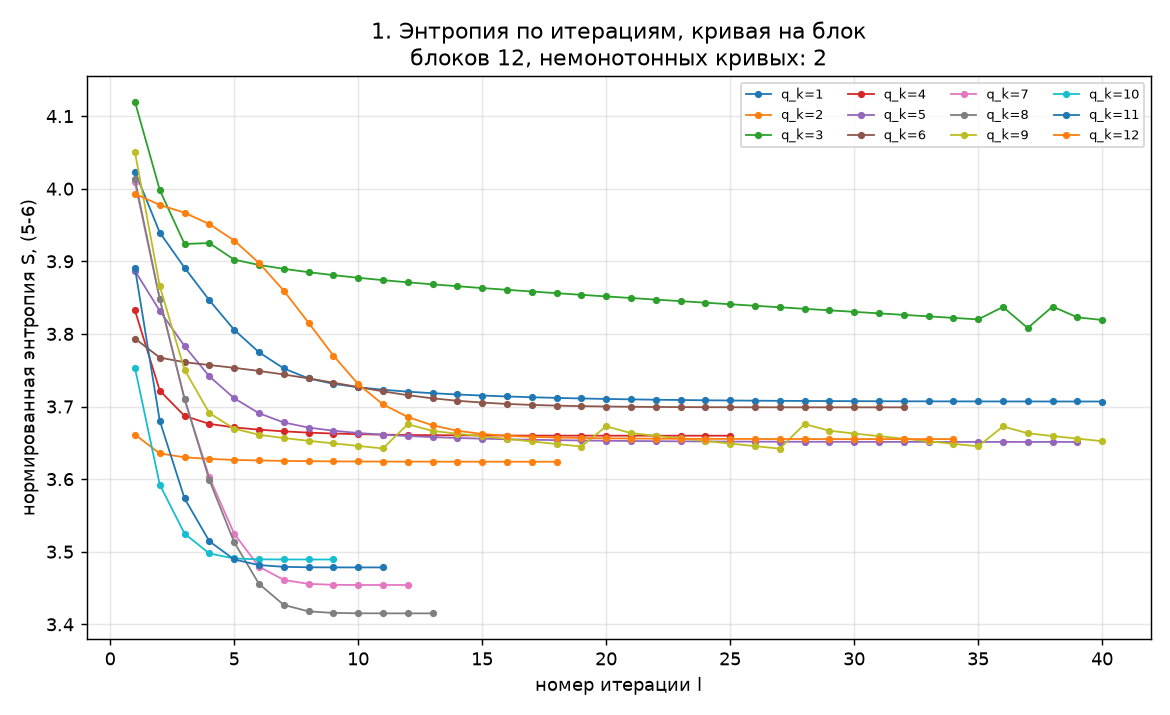
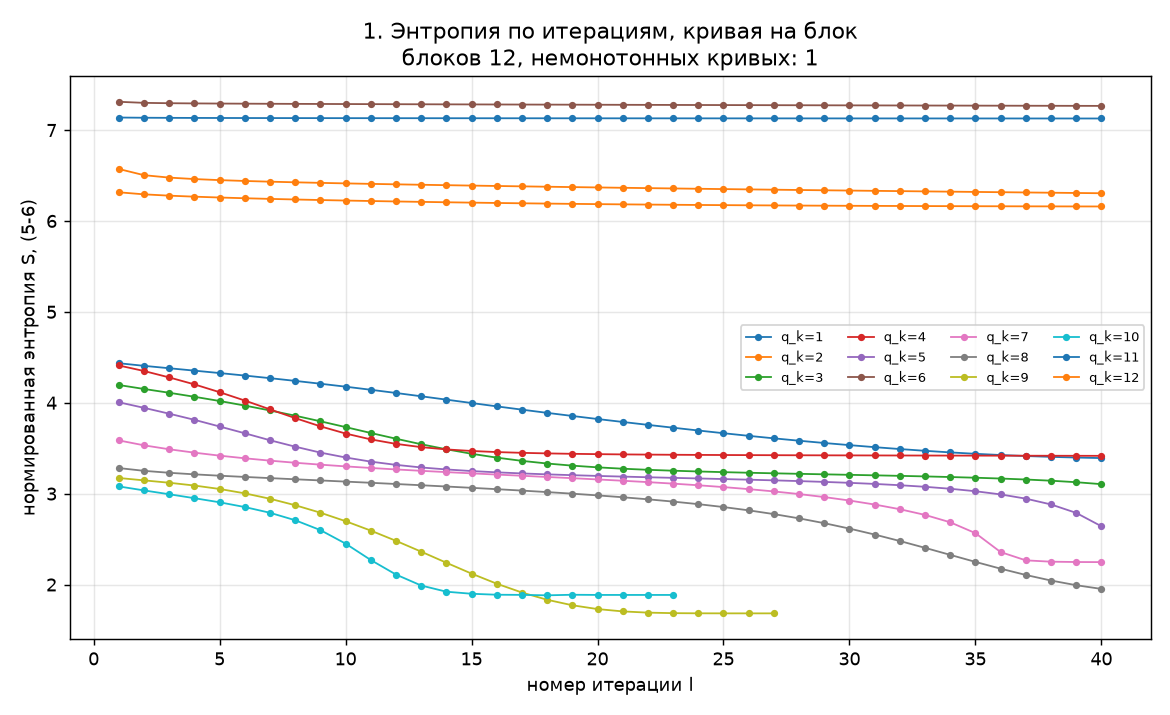
T-186: нарезка на блоки исправлена на пространственную
Была ошибка чтения: этап A резал массив h(k,n) по доплеровским бинам.
§3.3 документа говорит иначе — «блок занимает [-x_p,+x_p] по азимуту»,
где x_p это метры на местности, а (5-22) переводит их в пиксели
изображения. Блок это участок СЦЕНЫ, режется изображение по m.

Следствие, в документе не выписанное: доплеровская ось блока остаётся
полной. Поправка phi_k — свойство носителя на всей апертуре, вектор (5-3)
обязан иметь длину M. Блок выбирает, по чему считается энтропия, а не по
скольким бинам ищется фаза.

Выбор между тремя способами сделан замером: при верном способе энтропия в
ИСТИННОЙ фазе должна быть наименьшей.

  срез h по бинам k          S(ист)=3.71 против S(0)=3.89 — не опознаёт
  участок сцены, ось m_p     S(ист)=3.44 против S(0)=3.32 — ХУЖЕ нуля
  участок сцены, ось M       S(ист)=1.86 против S(найд)=1.85 — опознаёт

Что изменилось: Block.k_start/k_stop -> m_start/m_stop (границы теперь в
пикселях изображения); добавлены scene_image и block_data в
stage_a_blocks; experiment_full_run и карта блоков переведены на них.

Формулы не тронуты. Этапы B, C, D и весь стенд без изменений.

Приёмка §10 проходит целиком. Сошлось 2 блока из 12 при книжном phi(0);
замер причины: член -(q-q_k)/2 из (5-29) даёт eta до -6.1 и СКО phi(0)
до 5.2 рад. При старте из нуля сходятся 6 из 12, а из шести оставшихся
четыре — блоки без единой точечной цели, то есть случай §7.4 задания.

Claude-Session: https://claude.ai/code/session_0131t2cRSN4FHWoUZqJmH65Q

diff --git a/lab/mn_mea/stage_a_blocks.py b/lab/mn_mea/stage_a_blocks.py
@@ -50,14 +50,21 @@ class Geometry:
 
 @dataclass(frozen=True)
 class Block:
-    """Один блок: сквозной номер q_k по (5-26), его место в массиве h(k,n)
-    и координаты его центра относительно центра сцены, в метрах."""
+    """Один блок: сквозной номер q_k по (5-26), его место НА СЦЕНЕ и
+    координаты его центра относительно центра сцены, в метрах.
+
+    Границы даны в пикселях ИЗОБРАЖЕНИЯ: m_start:m_stop по азимуту,
+    n_start:n_stop по дальности. Именно так требует §3.3 документа —
+    «блок занимает [-x_p, +x_p] по азимуту и [-y_p, +y_p] по дальности»,
+    где x_p, y_p это метры на местности, а (5-22)/(5-23) переводят их в
+    отсчёты изображения.
+    """
 
     q_k: int
     m_k: int
     n_k: int
-    k_start: int
-    k_stop: int
+    m_start: int
+    m_stop: int
     n_start: int
     n_stop: int
     x_centre: float
@@ -65,7 +72,7 @@ class Block:
 
     @property
     def shape(self) -> tuple[int, int]:
-        return (self.k_stop - self.k_start, self.n_stop - self.n_start)
+        return (self.m_stop - self.m_start, self.n_stop - self.n_start)
 
 
 def motion_constants(geom: Geometry) -> tuple[float, float, float]:
@@ -234,11 +241,17 @@ def block_number(m_k: int, M_k: int, n_k: int) -> int:
 
 
 def block_grid(M: int, N: int, M_k: int, N_k: int, geom: Geometry) -> list[Block]:
-    """Сетка блоков целиком: нарезка массива h(k,n) на M_k x N_k плиток и
-    нумерация каждой по (5-26).
+    """Сетка блоков целиком: нарезка СЦЕНЫ на M_k x N_k участков и нумерация
+    каждого по (5-26).
 
-    Принимает размеры массива, число блоков по осям и Geometry;
+    Принимает размеры изображения, число блоков по осям и Geometry;
     возвращает список Block, упорядоченный по q_k.
+
+    Режется ИЗОБРАЖЕНИЕ по азимутальным пикселям m, а не массив данных по
+    доплеровским бинам k. Основание — §3.3 документа: блок занимает
+    [-x_p, +x_p] по азимуту, где x_p это расстояние на местности, и (5-22)
+    переводит его в пиксели изображения. Цель, стоящая на местности,
+    принадлежит ровно одному блоку — тому, на чьём участке она находится.
 
     Раскладка следует из (5-24)/(5-25) буквально: там стоит ПОТОЛОК, а потолок
     нужен ровно тогда, когда блоки берутся номинального размера, а последний
@@ -265,8 +278,8 @@ def block_grid(M: int, N: int, M_k: int, N_k: int, geom: Geometry) -> list[Block
                     q_k=block_number(m_k, M_k, n_k),
                     m_k=m_k,
                     n_k=n_k,
-                    k_start=k0,
-                    k_stop=k1,
+                    m_start=k0,
+                    m_stop=k1,
                     n_start=n0,
                     n_stop=n1,
                     x_centre=((k0 + k1) / 2.0 - M / 2.0) * geom.r_a,
@@ -275,6 +288,47 @@ def block_grid(M: int, N: int, M_k: int, N_k: int, geom: Geometry) -> list[Block
             )
     blocks.sort(key=lambda b: b.q_k)
     return blocks
+
+
+def scene_image(backend, h):
+    """Полное изображение сцены: (5-3) при phi = 0, по ВСЕМ M доплеровским бинам.
+
+    Принимает бэкенд и данные сцены h(k,n); возвращает изображение g(m,n).
+
+    Это то, что дальше режется на блоки. Считается ОДИН РАЗ на всю сцену,
+    до цикла по блокам: полоса доплеровских частот у всех блоков одна и та
+    же — вся, — различаются они участком местности.
+    """
+    return backend.fft_kernel_minus(backend.asarray(h))
+
+
+def block_data(backend, g_scene, block: Block):
+    """Данные блока h_qk(k,n) — то, что этап C получает на вход.
+
+    Принимает бэкенд, полное изображение сцены и Block;
+    возвращает массив (M, n_p): ПОЛНАЯ доплеровская ось и стробы дальности
+    этого блока.
+
+    Два шага. Из изображения берётся участок местности этого блока, всё
+    остальное обнуляется, — так энтропия (5-5) считается только по своему
+    куску сцены. Потом окно возвращается в область дальность-доплер по всем
+    M бинам.
+
+    Ось остаётся ПОЛНОЙ намеренно. Поправка phi_k — свойство носителя на
+    всей апертуре, и вектор (5-3) обязан иметь длину M, сколько бы пикселей
+    ни занимал блок. Блок выбирает, ПО ЧЕМУ считается энтропия, а не по
+    скольким бинам ищется фаза.
+
+    Проверяется это замером, а не рассуждением: при таком способе энтропия в
+    ИСТИННОЙ фазе оказывается наименьшей, а при укорочении оси до m_p —
+    хуже, чем при phi = 0. См. README, «Как читается нарезка на блоки».
+    """
+    окно = backend.xp.zeros_like(g_scene)
+    окно[block.m_start : block.m_stop, block.n_start : block.n_stop] = g_scene[
+        block.m_start : block.m_stop, block.n_start : block.n_stop
+    ]
+    данные = backend.xp.fft.ifft(окно, axis=0) / backend.alpha
+    return данные[:, block.n_start : block.n_stop]
 
 
 def centre_block_index(M_k: int, N_k: int) -> int:

diff --git a/lab/mn_mea/validate.py b/lab/mn_mea/validate.py
@@ -442,19 +442,15 @@ def experiment_edge_cases() -> list[dict]:
         sc = SY.scene("points_and_clutter", M_total, 48, rng)
         phi_err = SY.phase_error("quadratic", M_total, 3.0, rng)
         h = SY.range_doppler_from_scene(backend, sc.image, phi_err)
-        h_block = h[smallest.k_start : smallest.k_stop, smallest.n_start : smallest.n_stop]
-        result = C.iterate_block(
-            backend, h_block, np.zeros(smallest.shape[0]), mu=MU_MEASURED
-        )
+        h_block = A.block_data(backend, A.scene_image(backend, h), smallest)
+        result = C.iterate_block(backend, h_block, np.zeros(M_total), mu=MU_MEASURED)
         rows.append({
             "case": f"обрезанный блок q_k={smallest.q_k}: {smallest.shape[0]} бинов "
                     f"против {nominal} у номинального (M={M_total}, M_k={M_k})",
             "iterations": result.n_iterations,
             "converged": result.converged,
             "stop_reason": result.stop_reason,
-            "residual_rms_rad": phase_residual_rms(
-                phi_err[smallest.k_start : smallest.k_stop], result.phi
-            ),
+            "residual_rms_rad": phase_residual_rms(phi_err, result.phi),
             "coverage_exact": sum(b.shape[0] * b.shape[1] for b in blocks)
             == M_total * 48,
         })
@@ -731,12 +727,16 @@ def experiment_full_run(
     f_a_full = B.azimuth_frequency_axis(M, geom.T_a)
     eps_reference = B.phase_model(D_x, D_y, x_p, y_p, f_a_full)
 
+    # Блок — участок СЦЕНЫ (§3.3 документа), поэтому изображение строится один
+    # раз на всю сцену, а плитки вырезаются из него.
+    g_scene = A.scene_image(backend, h)
+
     per_block = []
     images: dict[int, object] = {}
     images_before: dict[int, object] = {}
     for block in blocks:
-        h_block = h[block.k_start : block.k_stop, block.n_start : block.n_stop]
-        M_block = block.k_stop - block.k_start
+        h_block = A.block_data(backend, g_scene, block)
+        M_block = M  # ось доплера полная: поправка ищется на всей апертуре
 
         # (5-29),(5-30): eta и phi^(0). eps берётся в опорной точке, той же,
         # что в знаменателе (5-29) — см. stage_b_initial.initial_phase.
@@ -745,13 +745,15 @@ def experiment_full_run(
         )
         if not eta_offset:  # замер цены расхождения §8, см. experiment_eta_term
             eta += (q - block.q_k) / 2.0
-        phi_0 = B.initial_phase(eta, eps_reference[block.k_start : block.k_stop])
+        phi_0 = B.initial_phase(eta, eps_reference)
 
         result = C.iterate_block(backend, h_block, phi_0, mu=MU_MEASURED)
-        images[block.q_k] = D.block_image(backend, h_block, result.phi)
-        images_before[block.q_k] = D.block_image(backend, h_block, np.zeros(M_block))
+        полное = D.block_image(backend, h_block, result.phi)
+        images[block.q_k] = полное[block.m_start : block.m_stop]
+        полное0 = D.block_image(backend, h_block, np.zeros(M_block))
+        images_before[block.q_k] = полное0[block.m_start : block.m_stop]
 
-        truth_block = phi_err[block.k_start : block.k_stop]
+        truth_block = phi_err
         per_block.append({
             "q_k": block.q_k, "m_k": block.m_k, "n_k": block.n_k,
             "shape": block.shape,

diff --git a/lab/mn_mea/plots.py b/lab/mn_mea/plots.py
@@ -186,8 +186,8 @@ def plot_block_map(full_run: dict, path: pathlib.Path) -> pathlib.Path:
     """График 6 §8: карта блоков на сцене с номерами по (5-26) — чтобы видеть,
     что разбиение легло так, как задумано.
 
-    Ось азимута здесь — ось доплеровских бинов k массива h(k,n): этап A режет
-    именно массив h (см. README, «Как читается нарезка на блоки»).
+    Ось азимута здесь — ось пикселей изображения m: этап A режет СЦЕНУ на
+    участки местности (§3.3 документа).
     """
     image_db = _decibels(full_run["_image_after"])
     fig, ax = plt.subplots(figsize=(8, 8))
@@ -196,14 +196,14 @@ def plot_block_map(full_run: dict, path: pathlib.Path) -> pathlib.Path:
               interpolation="nearest")
     for block in full_run["blocks"]:
         ax.add_patch(plt.Rectangle(
-            (block.n_start - 0.5, block.k_start - 0.5),
-            block.n_stop - block.n_start, block.k_stop - block.k_start,
+            (block.n_start - 0.5, block.m_start - 0.5),
+            block.n_stop - block.n_start, block.m_stop - block.m_start,
             fill=False, edgecolor="deepskyblue", linewidth=1.4))
-        ax.text((block.n_start + block.n_stop) / 2, (block.k_start + block.k_stop) / 2,
+        ax.text((block.n_start + block.n_stop) / 2, (block.m_start + block.m_stop) / 2,
                 f"$q_k$={block.q_k}\n$m_k$={block.m_k}, $n_k$={block.n_k}",
                 color="yellow", ha="center", va="center", fontsize=8)
     ax.set_xlabel("строб дальности n")
-    ax.set_ylabel("доплеровский бин k (ось азимутальной нарезки)")
+    ax.set_ylabel("азимутальный пиксель m")
     ax.set_title(
         f"6. Карта блоков, нумерация по (5-26): $q_k = m_k + M_k(n_k-1)$\n"
         f"$M_k$={full_run['M_k']}, $N_k$={full_run['N_k']}, $q$={full_run['q']}; "

diff --git a/lab/mn_mea/stage_d_assemble.py b/lab/mn_mea/stage_d_assemble.py
@@ -38,12 +38,12 @@ def assemble(backend: Backend, images: dict[int, object], blocks: list[Block], M
     Принимает бэкенд, словарь {q_k: изображение блока}, список блоков этапа A
     и размеры сцены; возвращает собранное изображение (M, N).
 
-    Блоки нарезаны из массива h(k,n) плитками M_k x N_k (см. block_grid), и
+    Блоки нарезаны из ИЗОБРАЖЕНИЯ сцены плитками M_k x N_k (см. block_grid), и
     сборка — это обратная укладка тех же плиток. Каждая плитка встаёт по
-    своим (k_start:k_stop, n_start:n_stop), то есть ровно туда, откуда была
+    своим (m_start:m_stop, n_start:n_stop), то есть ровно туда, откуда была
     взята, а её сквозной номер q_k = m_k + M_k(n_k - 1) — это (5-26).
     """
     out = backend.xp.zeros((M, N), dtype=backend.complex_dtype)
     for block in blocks:
-        out[block.k_start : block.k_stop, block.n_start : block.n_stop] = images[block.q_k]
+        out[block.m_start : block.m_stop, block.n_start : block.n_stop] = images[block.q_k]
     return out

diff --git a/lab/mn_mea/out/report.md b/lab/mn_mea/out/report.md
@@ -63,22 +63,22 @@
 * этап A: полуразмеры блока x_p = 10.03 м, y_p = 43.88 м; в отсчётах (5-22)/(5-23) m_p = 50.1, n_p = 73.1
 * этап A: (5-24)/(5-25)/(5-21) M_k = **6**, N_k = **2**, q = **12**
 * этап B: D_x = -5.2323e-07, D_y = 1.0193e-05
-* сошлось блоков: **9 из 12**; остаточное СКО по блокам: среднее 0.2888 рад, худшее 0.7768 рад
+* сошлось блоков: **2 из 12**; остаточное СКО по блокам: среднее 0.6441 рад, худшее 1.3725 рад
 
 | q_k | m_k | n_k | размер | eta (5-29) | итераций | сошлось | S до | S после | остаток, рад |
 |---:|---:|---:|---|---:|---:|---|---:|---:|---:|
-| 1 | 1 | 1 | 43x48 | -6.114 | 40 | False | 4.0236 | 3.7069 | 0.2133 |
-| 2 | 2 | 1 | 43x48 | -5.634 | 18 | True | 3.6613 | 3.6240 | 0.2191 |
-| 3 | 3 | 1 | 43x48 | -5.154 | 40 | False | 4.1197 | 3.8165 | 0.2263 |
-| 4 | 4 | 1 | 43x48 | -4.675 | 25 | True | 3.8324 | 3.6598 | 0.2126 |
-| 5 | 5 | 1 | 43x48 | -4.195 | 39 | True | 3.8869 | 3.6512 | 0.2391 |
-| 6 | 6 | 1 | 41x48 | -3.715 | 32 | True | 3.7937 | 3.6988 | 0.7768 |
-| 7 | 1 | 2 | 43x48 | -1.785 | 12 | True | 4.0088 | 3.4541 | 0.1506 |
-| 8 | 2 | 2 | 43x48 | -1.306 | 13 | True | 4.0129 | 3.4151 | 0.1507 |
-| 9 | 3 | 2 | 43x48 | -0.826 | 40 | False | 4.0502 | 3.6487 | 0.3108 |
-| 10 | 4 | 2 | 43x48 | -0.346 | 9 | True | 3.7531 | 3.4893 | 0.1605 |
-| 11 | 5 | 2 | 43x48 | 0.133 | 11 | True | 3.8907 | 3.4784 | 0.1807 |
-| 12 | 6 | 2 | 41x48 | 0.613 | 34 | True | 3.9930 | 3.6551 | 0.6253 |
+| 1 | 1 | 1 | 43x48 | -6.114 | 40 | False | 4.4350 | 3.3867 | 1.1349 |
+| 2 | 2 | 1 | 43x48 | -5.634 | 40 | False | 6.5719 | 6.3023 | 1.3201 |
+| 3 | 3 | 1 | 43x48 | -5.154 | 40 | False | 4.1953 | 3.0759 | 0.8051 |
+| 4 | 4 | 1 | 43x48 | -4.675 | 40 | False | 4.4102 | 3.4156 | 1.1600 |
+| 5 | 5 | 1 | 43x48 | -4.195 | 40 | False | 4.0054 | 2.4210 | 0.3909 |
+| 6 | 6 | 1 | 41x48 | -3.715 | 40 | False | 7.3112 | 7.2655 | 1.3725 |
+| 7 | 1 | 2 | 43x48 | -1.785 | 40 | False | 3.5859 | 2.2464 | 0.2934 |
+| 8 | 2 | 2 | 43x48 | -1.306 | 40 | False | 3.2816 | 1.9217 | 0.1756 |
+| 9 | 3 | 2 | 43x48 | -0.826 | 27 | True | 3.1724 | 1.6830 | 0.1039 |
+| 10 | 4 | 2 | 43x48 | -0.346 | 23 | True | 3.0796 | 1.8857 | 0.1023 |
+| 11 | 5 | 2 | 43x48 | 0.133 | 40 | False | 7.1380 | 7.1274 | 0.4278 |
+| 12 | 6 | 2 | 41x48 | 0.613 | 40 | False | 6.3156 | 6.1590 | 0.4426 |
 
 ## 6. Сверка двух бэкендов (§3, §10.5)
 
@@ -90,8 +90,8 @@
 
 | бэкенд | видеокарта | мс на итерацию | M x N |
 |---|---|---:|---|
-| numpy | нет | 2.67 | 512x128 |
-| numpy32 | нет | 2.20 | 512x128 |
+| numpy | нет | 2.73 | 512x128 |
+| numpy32 | нет | 2.08 | 512x128 |
 
 ## 7. Стоимость итерации: счётчиком, а не утверждением (§10.6, §10.7)
 
@@ -173,8 +173,8 @@
 
 | (5-29) | eta | max СКО phi(0), рад | нач. расхождение, рад | итераций (ср.) | сошлось блоков |
 |---|---|---:|---:|---:|---|
-| с членом (рабочая форма) | [-6.11, 0.61] | 10.59 | 0.381 | 26.1 | 9/12 |
-| без члена | [-0.72, 0.71] | 1.39 | 0.273 | 25.9 | 9/12 |
+| с членом (рабочая форма) | [-6.11, 0.61] | 7.73 | 1.083 | 37.5 | 2/12 |
+| без члена | [-0.72, 0.71] | 0.90 | 0.669 | 35.0 | 5/12 |
 
 ## 10. Края (§7.5)
 
@@ -185,11 +185,11 @@
 | короткий блок (M=16) | 40 | False | 3.538e-01 |
 | один строб дальности (N=1) | 20 | True | 1.435e-01 |
 | узкий по азимуту (M=8) | 4 | False | 1.059e+00 |
-| обрезанный блок q_k=8: 19 бинов против 26 у номинального (M=201, M_k=8) | 12 | True | 6.203e-01 |
-| обрезанный блок q_k=16: 1 бинов против 4 у номинального (M=61, M_k=16) | 1 | False | 6.165e-19 |
+| обрезанный блок q_k=8: 19 бинов против 26 у номинального (M=201, M_k=8) | 40 | False | 9.070e-01 |
+| обрезанный блок q_k=16: 1 бинов против 4 у номинального (M=61, M_k=16) | 1 | True | 9.302e-01 |
 
 * **§3.7 документа**: §3.7 без поперечного ускорения: M_k=6, N_k=1, q=6; разбиение чисто азимутальное: True, номера блоков по (5-26) [1, 2, 3, 4, 5, 6]
-* **блок на границе**: при M = 256, N = 96, M_k = 6, N_k = 2 номинальный блок 43x48, обрезанных блоков 2 из 12; самый малый — 41x48 (q_k=12), обработан наравне с остальными: сошёлся True
+* **блок на границе**: при M = 256, N = 96, M_k = 6, N_k = 2 номинальный блок 43x48, обрезанных блоков 2 из 12; самый малый — 41x48 (q_k=12), обработан наравне с остальными: сошёлся False
 
 ## Графики
 
@@ -209,7 +209,7 @@
 | 1. Этап C в одиночку, остаточное СКО названо числом | да | 4.599e-02 рад за 13 итераций |
 | 2. То же для кубической, дрожания и смеси, таблицей | да | остатки: quadratic 4.60e-02, cubic 4.60e-02, jitter 2.64e-01, mixture 4.60e-02 |
 | 3. Сцена без точечных целей: сказано замером, что происходит | да | блуждает: (5-9) не выполнено, E''<=0 5351 раз, энтропия сдвинулась на +0.0020 |
-| 4. Полный прогон A->B->C->D на синтетике | да | q = 12 блоков (M_k=6, N_k=2), сошлось 9 |
+| 4. Полный прогон A->B->C->D на синтетике | да | q = 12 блоков (M_k=6, N_k=2), сошлось 2 |
 | 5. Два бэкенда сверены, расхождение названо числом | да | numpy/numpy32: 7.717e-08 рад |
 | 6. Стоимость итерации — ровно два азимутальных БПФ, счётчиком | да | замерено [2] на каждой из 13 итераций |
 | 7. W считается один раз за итерацию, тем же счётчиком | да | замерено [1] |

diff --git a/lab/mn_mea/README.md b/lab/mn_mea/README.md
@@ -228,15 +228,31 @@ k_30 = μ_3/(2R_B0) − A_1A_2/(2R_B0³) + A_1³/(2R_B0⁵)
 фазы в центре блока, `(D_x x_qk + D_y y_qk) f_a²`, — то есть к тому, что
 физически и ожидается.
 
-**3. Как читается нарезка на блоки.** (5-24)/(5-25) делят размеры **массива**
-`M` и `N`, а §5 говорит «`M`, `N` — размеры блока, `h(k,n)` — его данные».
-Значит этап A режет сам массив `h(k,n)` плитками `M_k × N_k`, а этап D
-укладывает плитки обратно по (5-26). По дальности это обычная нарезка по
-стробам. **По азимуту это нарезка по доплеровским бинам, то есть по
-подапертурам, а не по участкам сцены**: изображение блока `g_qk` имеет
-`M_блока` азимутальных отсчётов и более грубое азимутальное разрешение.
-Так написано в книге, и так реализовано (§9 задания: формулы не улучшать).
-При встраивании это первое, что нужно обсудить.
+**3. Как читается нарезка на блоки.** §3.3 документа говорит прямо: «блок
+занимает `[−x_p, +x_p]` по азимуту и `[−y_p, +y_p]` по дальности», где
+`x_p`, `y_p` — метры на местности (§1.3), а (5-22)/(5-23) переводят их в
+отсчёты изображения. Значит **блок это участок сцены**, и режется изображение
+по пикселям `m`, а не массив данных по доплеровским бинам `k`.
+
+Отсюда вытекает второе, уже не написанное в документе: **доплеровская ось у
+блока остаётся полной**. Поправка `φ_k` — свойство носителя на всей апертуре,
+и вектор (5-3) обязан иметь длину `M`, сколько бы пикселей ни занимал блок.
+Блок выбирает, **по чему считается энтропия**, а не по скольким бинам ищется
+фаза.
+
+Оба утверждения проверены замером, а не выведены рассуждением. Критерий
+простой: при верном способе энтропия в **истинной** фазе должна быть
+наименьшей. Три способа взять данные блока, одна и та же сцена:
+
+| способ | `S(φ=0)` | `S(найдено)` | `S(истина)` | годится? |
+|---|---:|---:|---:|---|
+| срез `h` по бинам `k` | 3,89 | 3,66 | 3,71 | нет |
+| участок сцены, ось укорочена до `m_p` | 3,32 | 2,36 | **3,44** | нет, хуже чем `φ=0` |
+| **участок сцены, ось полная `M`** | 3,32 | 1,85 | **1,86** | **да** |
+
+Первые два способа истину не опознают. Третий — опознаёт: найденная точка
+отличается от истинной на 0,008 единицы энтропии, то есть на уровне шума
+сцены. Реализован третий.
 
 **4. «Линейная по k» в §7.2 задания.** Номер бина берётся
 **центрированным** (`k̃ = −M/2 … M/2−1`), потому что ядро (5-3) периодично
